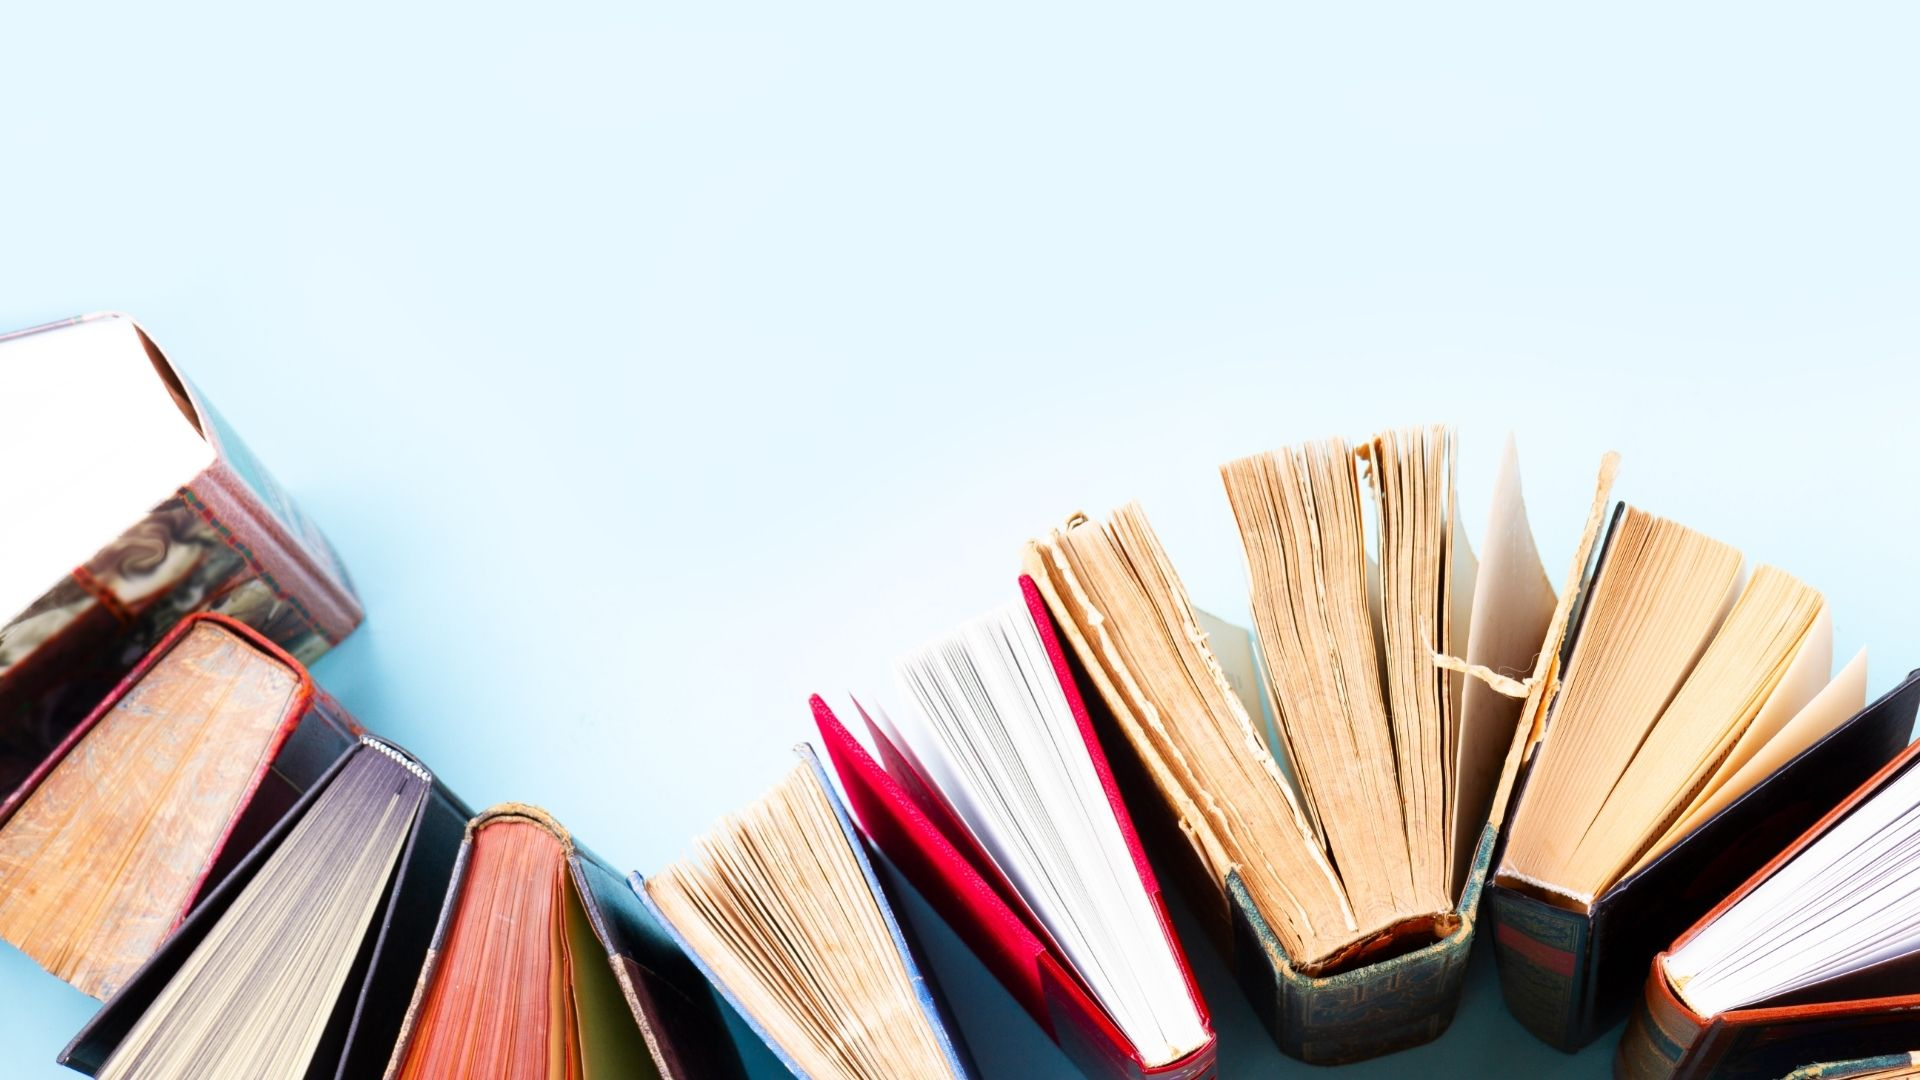
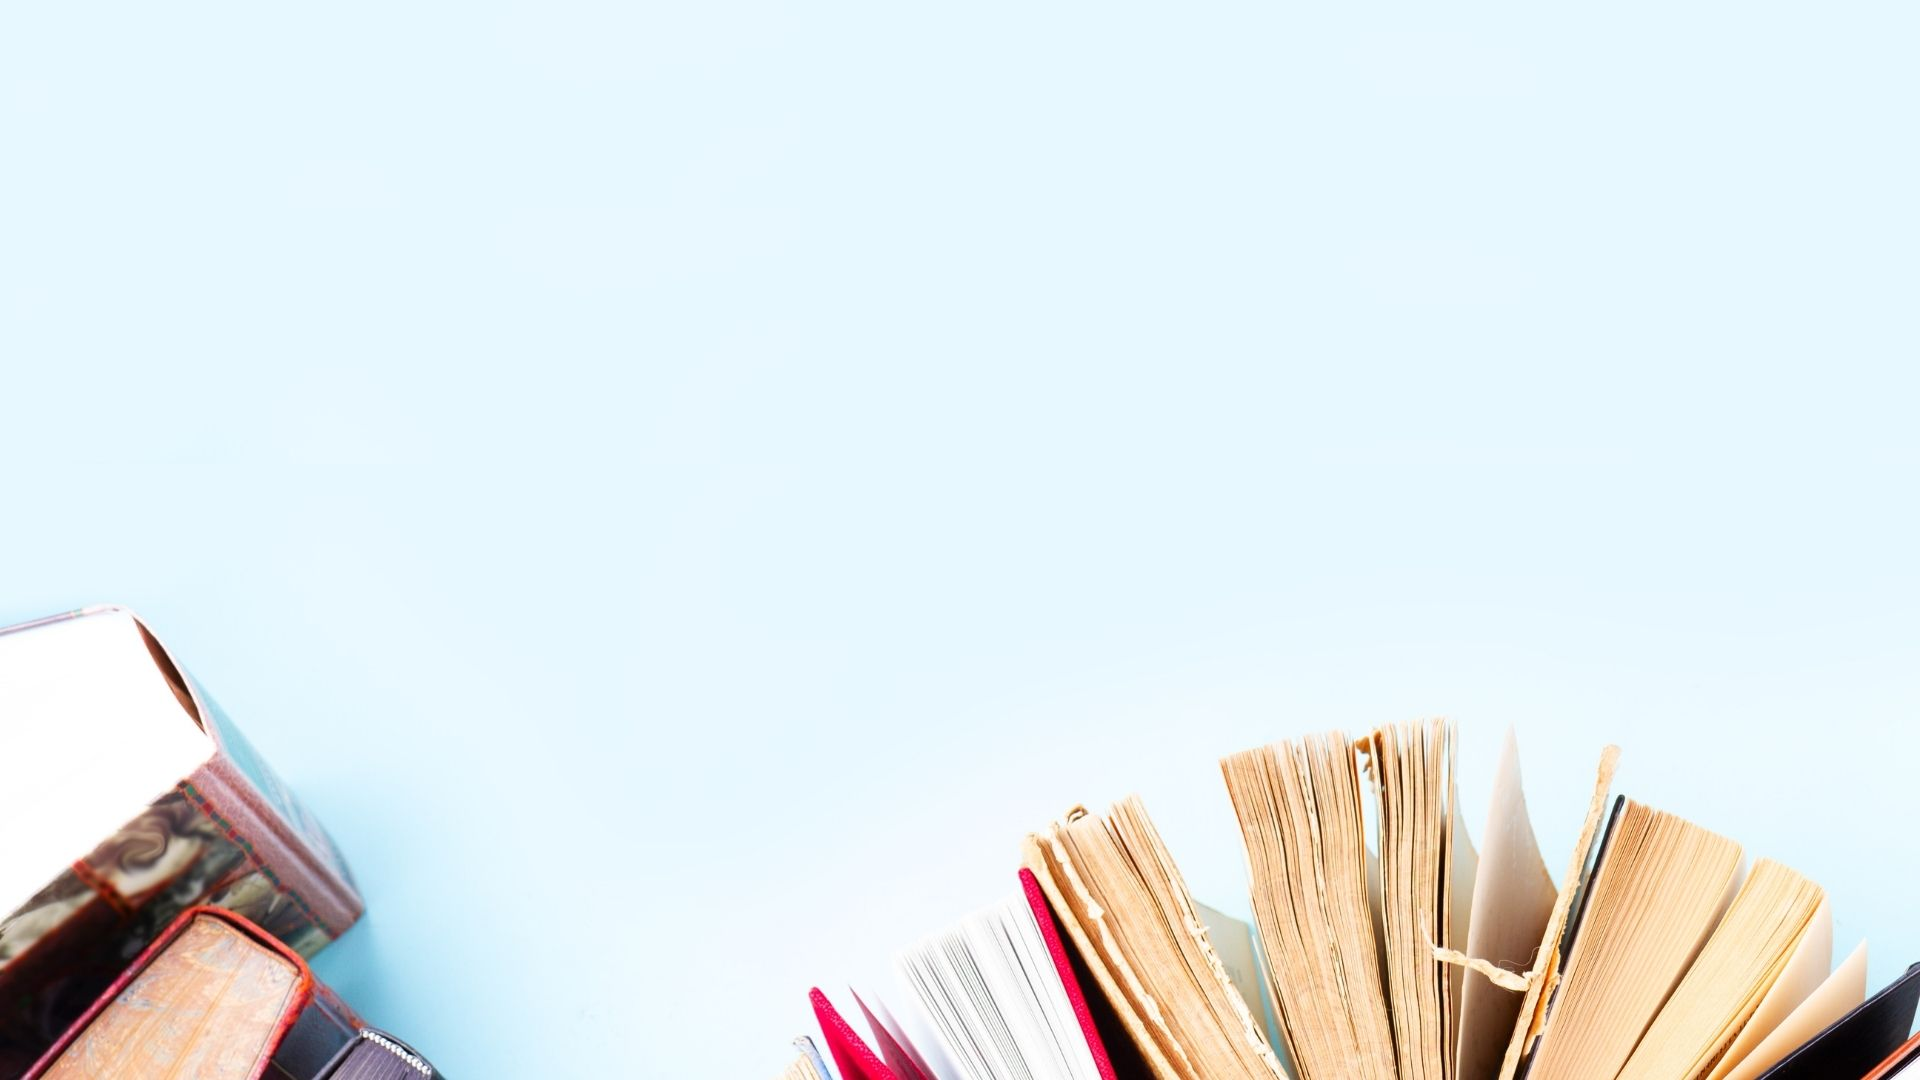
top-imageとメインカラーを変更

diff --git a/stylesheet.scss b/stylesheet.scss
@@ -1,4 +1,5 @@
 $font-color: white;
+$main-color:#2cbae7;
 
 * {
   box-sizing: border-box;
@@ -29,7 +30,7 @@ html, body{
 
     a {
       text-decoration: none;
-      color:$font-color;
+      color:$main-color;
     }
   }
 
@@ -44,7 +45,7 @@ html, body{
 
       a{
       text-decoration: none;
-      color:$font-color;
+      color:$main-color;
       cursor: pointer;
       }
     }
@@ -131,18 +132,20 @@ html, body{
 .top-image {
   width:100vw;
   height:100vh;
-  background-image: url(img/book-shelf.jpg);
+  background-image: url(img/top-image.jpg);
   background-size: cover;
 
   h1{
-    color:$font-color;
+    color:$main-color;
     font-size: 3rem;
     margin: 0;
+    // background-color: rgba($color: white, $alpha: 0.5);
   }
 
   h2 {
-    color:$font-color;
+    color:$main-color;
     margin: 0;
+    // background-color: rgba($color: white, $alpha: 0.5);
   }
 }
 

diff --git a/stylesheet.css b/stylesheet.css
@@ -29,7 +29,7 @@ html, body {
 
 .header-wrapper .logo a {
   text-decoration: none;
-  color: white;
+  color: #2cbae7;
 }
 
 .header-wrapper ul {
@@ -45,7 +45,7 @@ html, body {
 
 .header-wrapper ul li a {
   text-decoration: none;
-  color: white;
+  color: #2cbae7;
   cursor: pointer;
 }
 
@@ -127,18 +127,18 @@ html, body {
 .top-image {
   width: 100vw;
   height: 100vh;
-  background-image: url(img/book-shelf.jpg);
+  background-image: url(img/top-image.jpg);
   background-size: cover;
 }
 
 .top-image h1 {
-  color: white;
+  color: #2cbae7;
   font-size: 3rem;
   margin: 0;
 }
 
 .top-image h2 {
-  color: white;
+  color: #2cbae7;
   margin: 0;
 }
 
